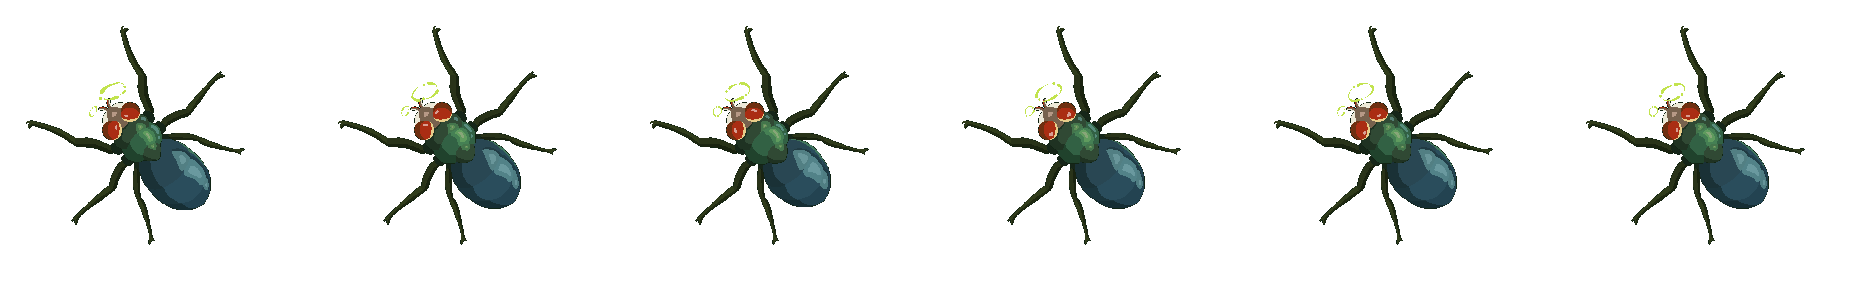
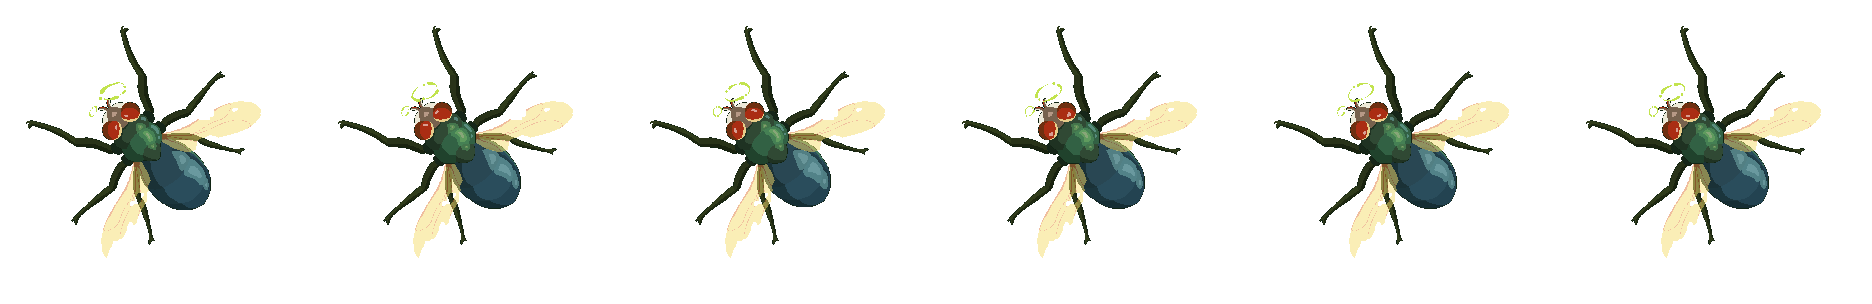
Add better stun animation

diff --git a/src/components/Flies/AboutFlies.ts b/src/components/Flies/AboutFlies.ts
@@ -874,7 +874,7 @@ const Flies:Fly[] = [
             {
                 action_name: "fly_poison",
                 location: poison_boss_fly,
-                frame: 18
+                frame: 9
             },
             {
                 action_name: "flying",
@@ -894,7 +894,7 @@ const Flies:Fly[] = [
             {
                 action_name: "shockwave",
                 location: shockwave_effect_fly,
-                frame: 22
+                frame: 14
             },
             {
                 action_name: "stun",